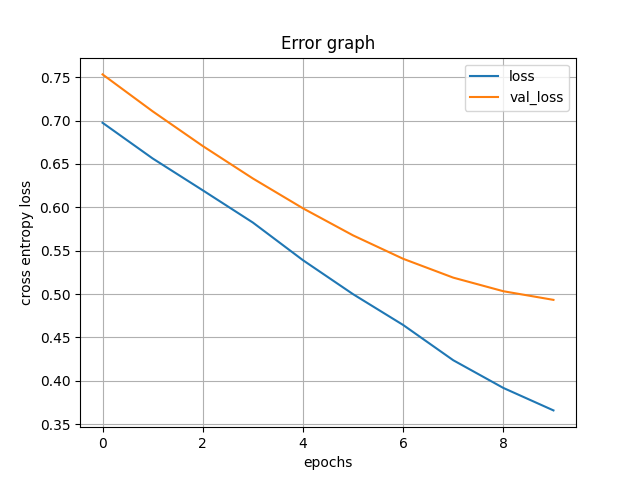
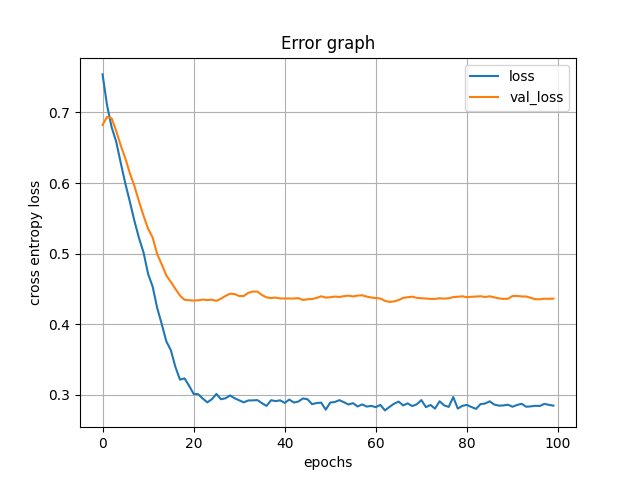
create file for our models

diff --git a/models.py b/models.py
@@ -1,34 +1,88 @@
 #%%
+#================
+# Plot librairies
+#================
 import matplotlib.pyplot as plt
+import seaborn as sns
+
+#======================
+# Scientific librairies
+#======================
 import numpy as np
 import pandas as pd
-import seaborn as sns
+
 import sys
 from data import Data
+
+#=========
+# NN model
+#=========
 from NN_models import RNN
 
+#=============
+# Simple model
+#=============
+from sklearn.neighbors import KNeighborsClassifier
+from sklearn.ensemble import RandomForestClassifier
+from sklearn.linear_model import LogisticRegression
+#====================
+# Performance measure
+#====================
+from sklearn.metrics import confusion_matrix, accuracy_score
+from sklearn.model_selection import train_test_split
+
+#=====================================================================
+#Initialization Data
 data = Data("BTC")
 data.load_data()
 #choose for our estimation
-data.create_RNN_data(reg='return',LAG=10)
-data.df
+data.create_RNN_data(reg='return',LAG=1)
+print(f'dimension of data: {data.df.shape}')
 
 #%%
+#=======================#
+# Neural Network models #
+#=======================#
+
 model=RNN()
 
-model.create_model(data,architecture=[10],batch_normalization=True,activation="relu",drop_out=0.2)
-model.train_model(data,verbose=0,epoch=10)
+# add callback for early stopping
+model.create_model(data,architecture=[10,10,10],batch_normalization=True,activation="relu",drop_out=0.2)
+model.train_model(data,verbose=0,epoch=100)
 model.show_performance(label_='Error graph',data=data)
 pred=model.model(data.X_te)
-
 
 # plt.plot(pred.numpy().flatten(),color='k',label='Pred')
 # plt.plot(data.y_te.flatten(),color='blue',linestyle='--',label='True')
 # plt.legend()
 # plt.show()
 
+#===============#
+# Simple models #
+#===============#
+print("\n","==== Simple model ====")
+# standardize and choose our data
+X = data.df[["Volume","vix","gvz","Close_std","RSI_10","tweet_count",'Mass Index']]
+y = np.where(data.df['pump_5'].values > 0.05,0,1)
+feature_names = [column for column in X.columns]
 
+X_train, X_test, y_train, y_test = train_test_split(X, y, test_size=0.2)
 
-# %%
+print("\n","=== Random Forest ===")
+randomForest = RandomForestClassifier().fit(X_train,y_train)
 
-# %%
+pscore_train = accuracy_score(y_test, randomForest.predict(X_test))
+print(f'Accruracy score: {pscore_train}')
+
+clf = confusion_matrix(y_test, randomForest.predict(X_test))
+print("\n","Confusion Matrix")
+print(clf)
+
+print("\n","=== Logistic regresion ===")
+clf = LogisticRegression(random_state=0).fit(X_train, y_train)
+
+pscore_train = accuracy_score(y_test, clf.predict(X_test))
+print(f'Accruracy score: {pscore_train}')
+print("\n","Confusion Matrix")
+print(confusion_matrix(y_test, clf.predict(X_test)))
+

diff --git a/NN_models.py b/NN_models.py
@@ -4,7 +4,8 @@ import pandas as pd
 import os
 from matplotlib import  pyplot as plt
 from data import Data
-from sklearn.metrics import auc, confusion_matrix
+from sklearn.metrics import auc, confusion_matrix, accuracy_score
+
 
 class DNN:
     def __init__(self):
@@ -129,7 +130,10 @@ class DNN:
             col = ['Predicted ' + str(x) for x in cf.columns]
             cf.index = index
             cf.columns = col
+            # correct beug
+            accuracy = accuracy_score(y_true=np.argmax(data.y_te, 1), y_pred=np.argmax(pred, 1))
             print(cf)
+            print(f'Accuracy score: {accuracy}')
 
     def train_model(self, data, epoch=10, bs=256, verbose=0, tensor_board_name=None):
         assert type(data) == Data, 'the data object must come from the "Data" class'
@@ -138,6 +142,7 @@ class DNN:
         print('### start training for', epoch, 'epochs')
         # Prepare the validation dataset
         val_dataset = tf.data.Dataset.from_tensor_slices((data.X_va, data.y_va))
+        #batch size for our validation data
         val_dataset = val_dataset.batch(256)
 
         if tensor_board_name is not None:

diff --git a/data.py b/data.py
@@ -26,7 +26,7 @@ class Data:
         self.df['Close_ret_t+1'] = np.log(self.df[['Close']].shift(-1).values/self.df[['Close']].values)
         self.df['pump_5'] = np.where(self.df['Close_ret_t+1'] > 0.05,1,0)
 
-    def create_RNN_data(self,LAG=10,reg="Price",columns=["Volume","Close"]):
+    def create_RNN_data(self,LAG=10,reg="Price",columns=["Volume","tweet_count","vix"]):
         
         if reg == "Price":
             y=self.df[['Close_std']].values
@@ -57,7 +57,7 @@ class Data:
         #standardize X
         X = X[:-1,:]
         ind = np.arange(0, y.shape[0], 1)
-        tr = int(np.ceil(len(ind) * 0.8))
+        tr = int(np.ceil(len(ind) * 0.7))
         te = int(np.ceil(len(ind) * 0.9))
         
         self.X_tr = X[np.where(ind[:tr])[0], :]
